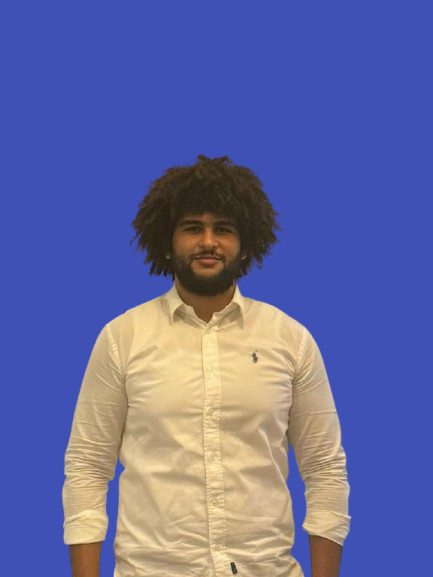
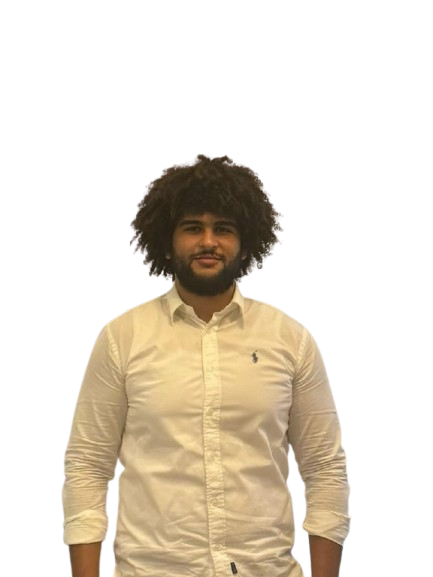
portfolio

diff --git a/src/app/components/hero-section.tsx b/src/app/components/hero-section.tsx
@@ -9,7 +9,7 @@ export function HeroSection() {
           <div className="mb-8">
             <div className="relative w-40 h-40 mx-auto mb-8">
               <Image
-                src="/placeholder.svg?height=160&width=160"
+                src="/profile-photo.jpg"
                 alt="Abderazak SAHLI"
                 fill
                 className="rounded-full object-cover border-4 border-white shadow-2xl"
